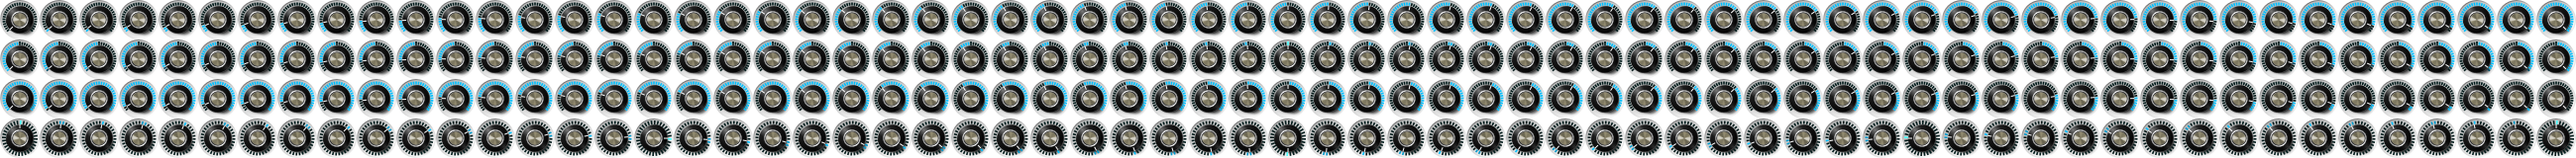
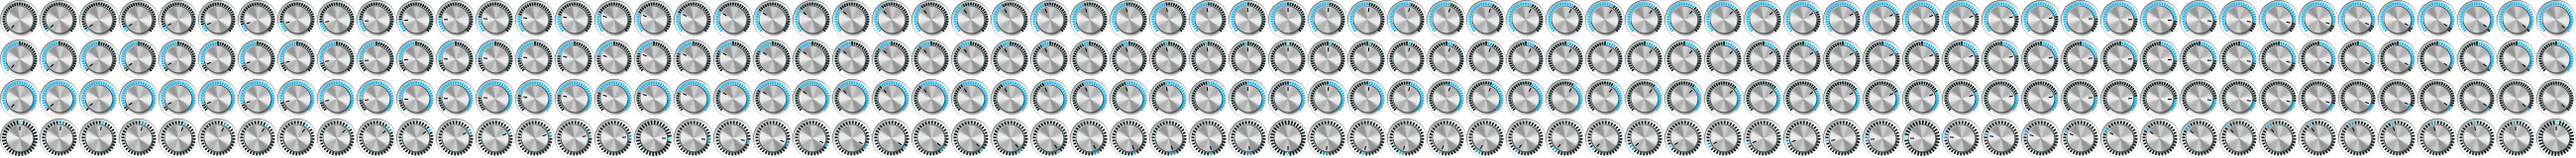
New knobs, new scollbars

diff --git a/knobs/knob2.py b/knobs/knob2.py
@@ -10,7 +10,7 @@ x, y = WIDTH / 2, HEIGHT / 2
 lwidth = WIDTH / 10
 radius = WIDTH / 2 - lwidth
 radiusplus = radius + lwidth / 2
-radiusminus = radius - lwidth / 2
+radiusminus = radius - lwidth / 1.0
 radiusminus2 = radius - lwidth
 radiusminus3 = radius - lwidth * 3 / 2
 radiusint = (radius - lwidth / 2) * 0.25
@@ -108,7 +108,7 @@ for variant in range(0, 4):
             ctx.arc(x, y, radius, sangle + adelta * led, sangle + adelta * led + spacing)
             ctx.stroke()
 
-        ctx.set_source_rgba(1, 1, 1, 1)
+        ctx.set_source_rgba(0, 0, 0, 1)
         ctx.set_line_width(1)
         mtx = ctx.get_matrix()
         ctx.translate(x + radiusminus * c, y + radiusminus * s)

diff --git a/knobs/knob1.py b/knobs/knob1.py
@@ -108,8 +108,8 @@ for variant in range(0, 4):
             ctx.arc(x, y, radius, sangle + adelta * led, sangle + adelta * led + spacing)
             ctx.stroke()
 
-        ctx.set_source_rgba(0, 0, 0, 0.8)
-        ctx.set_line_width(1)
+        ctx.set_source_rgba(0, 0, 0, 1)
+        ctx.set_line_width(1.5)
         mtx = ctx.get_matrix()
         ctx.translate(x + radiusminus2 * c, y + radiusminus2 * s)
         ctx.rotate(vangle)

diff --git a/knobs/knob4.py b/knobs/knob4.py
@@ -9,7 +9,7 @@ output = "knob4.png"
 x, y = WIDTH / 2, HEIGHT / 2
 lwidth = WIDTH / 15
 radius = WIDTH / 2 - lwidth
-radiusplus = radius + lwidth / 2
+radiusplus = radius + lwidth / 3
 radiusminus = radius - lwidth / 2
 radiusminus2 = radius - lwidth
 radiusminus3 = radius - lwidth * 3 / 2
